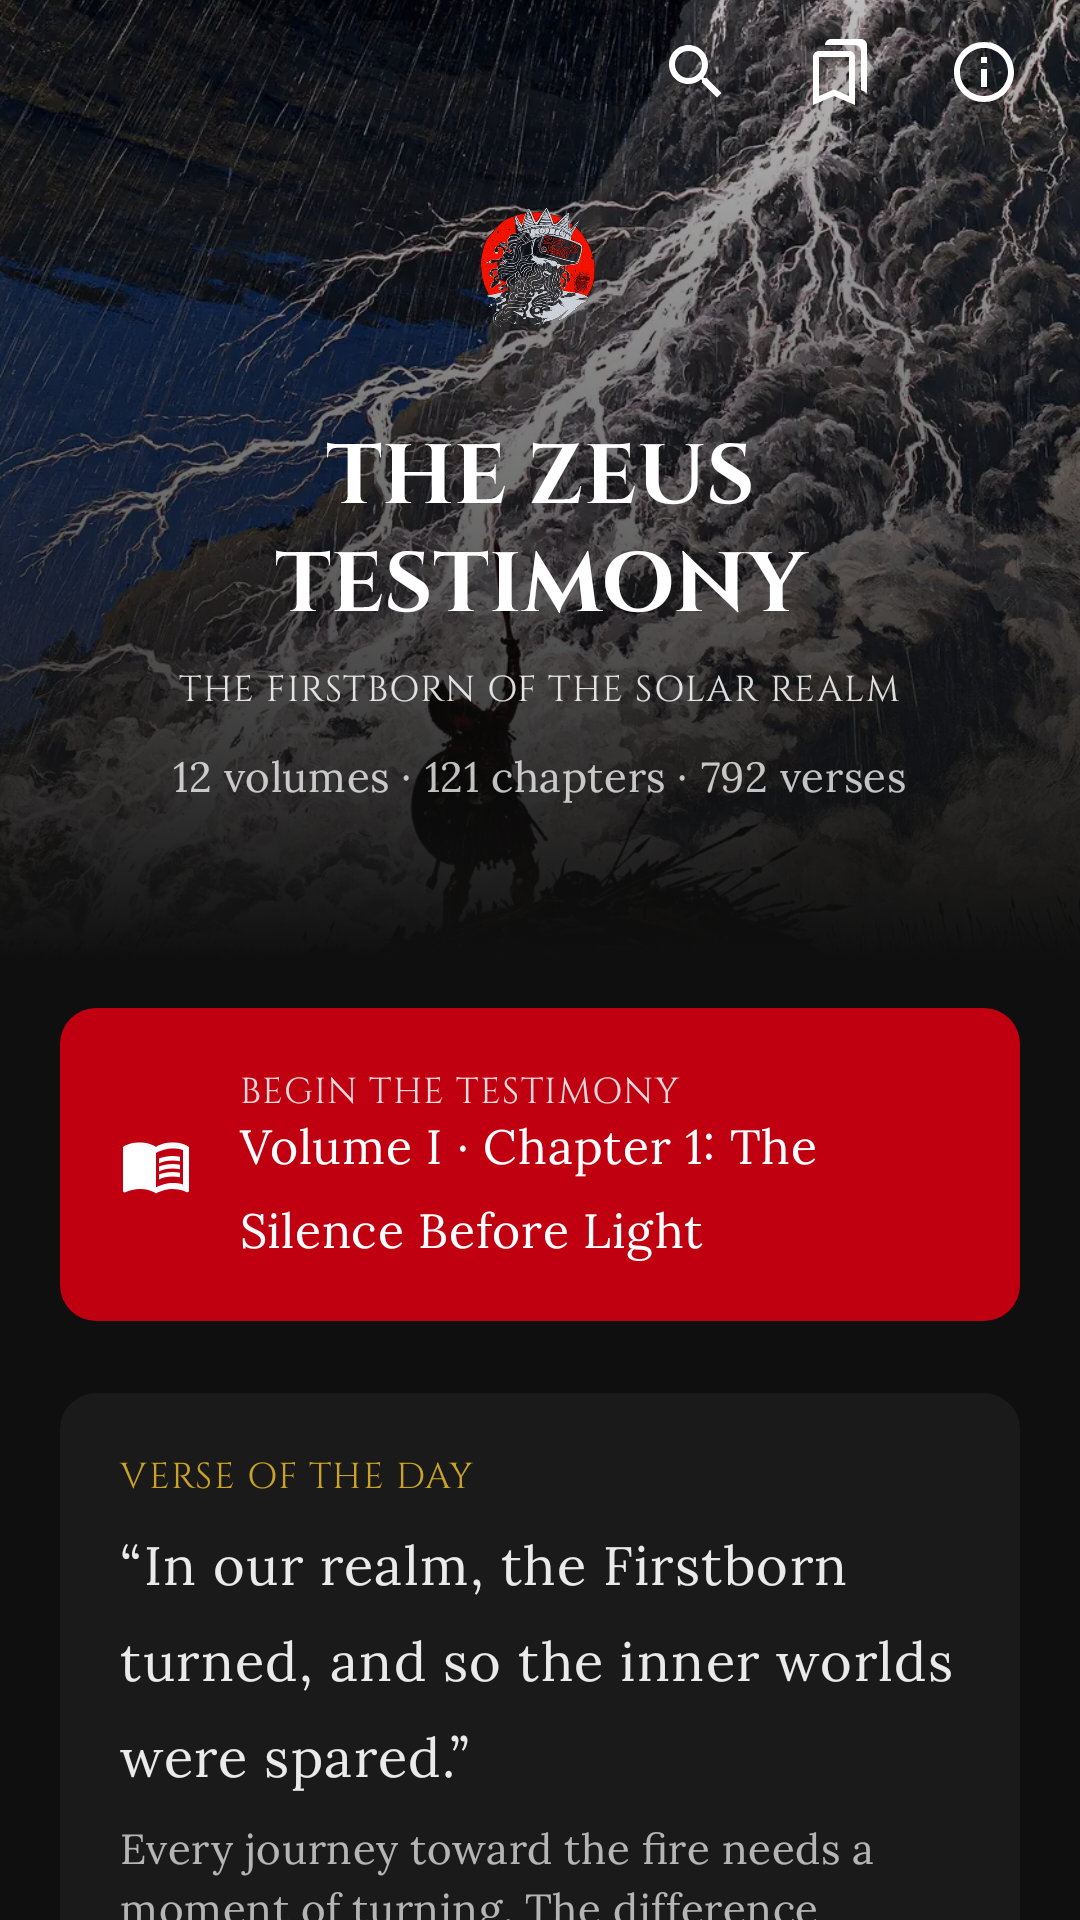
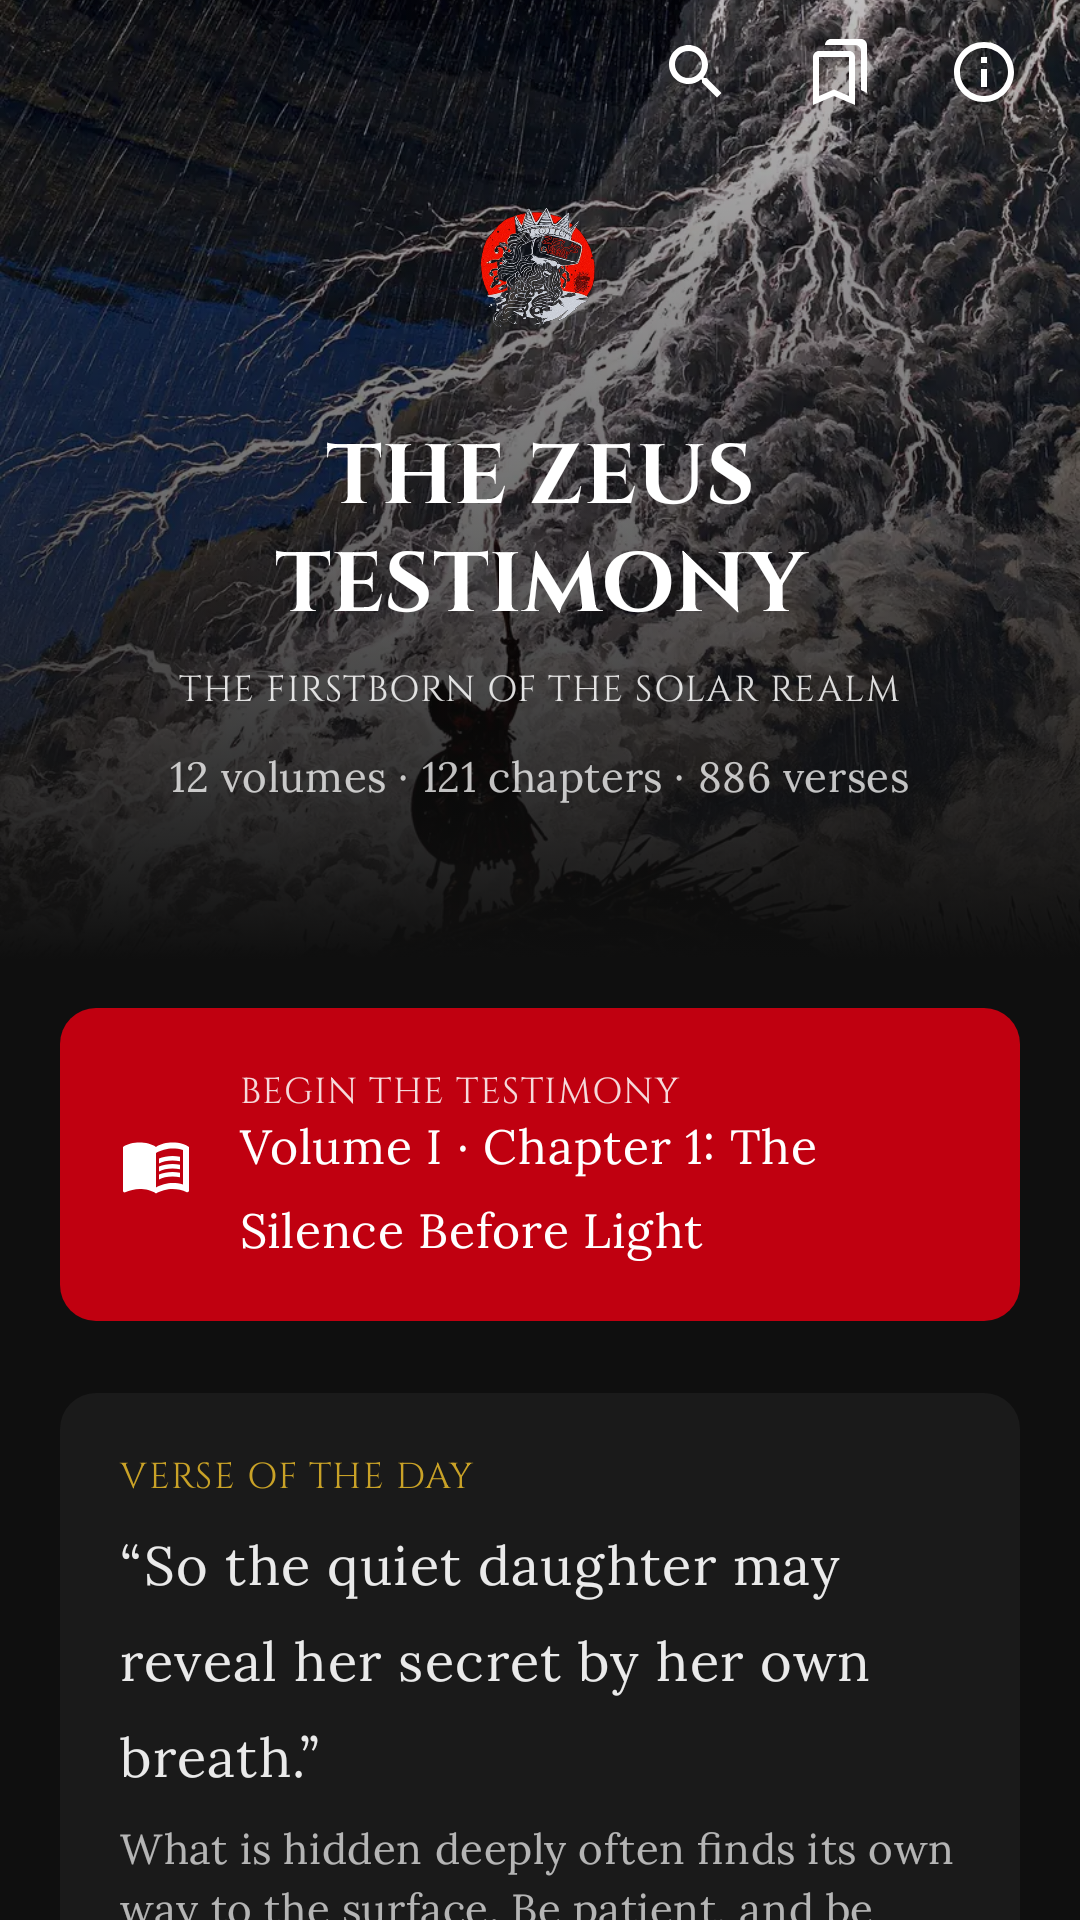
v2.6.0: first-launch introduction and 27 deepened chapters
- IntroScreen: four swipeable pages on first launch (the premise, the claim,
  science versus myth, the reader tools), Skip and Next, re-openable from
  About. ReaderFlowTest and LightModeTest now pass through it.
- Deepen 27 of the shortest chapters with 3 to 5 verses each (886 verses):
  Milankovitch cycles, Mercury's iron core, Jack Hills zircons, Red Spot
  Junior, the polar cyclones, Io's lava temperatures, Juno's Galileo plaque
  and more, all with labelled notes.

Claude-Session: https://claude.ai/code/session_01SLJxv3LMu86HmnE1Ybuoap

diff --git a/app/src/main/java/com/example/ui/screens/IntroScreen.kt b/app/src/main/java/com/example/ui/screens/IntroScreen.kt
@@ -1,0 +1,118 @@
+package com.example.ui.screens
+
+import androidx.compose.foundation.background
+import androidx.compose.foundation.layout.*
+import androidx.compose.foundation.pager.HorizontalPager
+import androidx.compose.foundation.pager.rememberPagerState
+import androidx.compose.foundation.shape.CircleShape
+import androidx.compose.material3.*
+import androidx.compose.runtime.Composable
+import androidx.compose.runtime.rememberCoroutineScope
+import androidx.compose.ui.Alignment
+import androidx.compose.ui.Modifier
+import androidx.compose.ui.draw.clip
+import androidx.compose.ui.graphics.Brush
+import androidx.compose.ui.graphics.Color
+import androidx.compose.ui.text.font.FontStyle
+import androidx.compose.ui.text.style.TextAlign
+import androidx.compose.ui.unit.dp
+import com.example.ui.components.AssetImage
+import kotlinx.coroutines.launch
+
+private data class IntroPage(val image: String, val kicker: String, val title: String, val body: String)
+
+private val pages = listOf(
+    IntroPage(
+        "v03_c01.webp",
+        "BEFORE THE EARTH",
+        "There was a king.",
+        "Four and a half billion years ago, before the Earth existed, one world grew faster than all the rest. " +
+            "Within a million years Jupiter was already standing. It was the first planet of our solar system.",
+    ),
+    IntroPage(
+        "v03_c02.webp",
+        "THE TESTIMONY",
+        "The first god to hold a world.",
+        "Jupiter carries the name of Zeus, the Sky Father. If Jupiter was the first world, then Zeus is the first god " +
+            "of the solar realm to hold one. Above him stands the Source, unnamed. This is his story.",
+    ),
+    IntroPage(
+        "v09_c01.webp",
+        "SCIENCE, MYTH AND WISDOM",
+        "Read with open eyes.",
+        "The verses are an epic. Beneath them, notes marked Science, History and Myth tell you what is proven, " +
+            "what is still debated, and what the ancients sang. Wisdom notes are for your own life.",
+    ),
+    IntroPage(
+        "v12_c08.webp",
+        "MAKE IT YOURS",
+        "Tap any verse.",
+        "Bookmark it for later, highlight it in gold, crimson, sky or olive, or share it. " +
+            "Your library, search and a new verse every day are waiting. Everything stays on your device.",
+    ),
+)
+
+@Composable
+fun IntroScreen(onFinish: () -> Unit) {
+    val pager = rememberPagerState { pages.size }
+    val scope = rememberCoroutineScope()
+    Box(Modifier.fillMaxSize().background(Color.Black)) {
+        HorizontalPager(state = pager, modifier = Modifier.fillMaxSize()) { index ->
+            val page = pages[index]
+            Box(Modifier.fillMaxSize()) {
+                AssetImage(path = page.image, contentDescription = null, modifier = Modifier.fillMaxSize())
+                Box(
+                    Modifier.fillMaxSize().background(
+                        Brush.verticalGradient(
+                            0f to Color.Black.copy(alpha = 0.15f),
+                            0.45f to Color.Black.copy(alpha = 0.35f),
+                            1f to Color.Black.copy(alpha = 0.95f),
+                        ),
+                    ),
+                )
+                Column(
+                    Modifier.align(Alignment.BottomCenter).fillMaxWidth().padding(horizontal = 28.dp).padding(bottom = 150.dp),
+                    horizontalAlignment = Alignment.CenterHorizontally,
+                ) {
+                    Text(page.kicker, style = MaterialTheme.typography.labelSmall, color = Color(0xFFC9A227), textAlign = TextAlign.Center)
+                    Spacer(Modifier.height(12.dp))
+                    Text(page.title, style = MaterialTheme.typography.titleLarge, color = Color.White, textAlign = TextAlign.Center)
+                    Spacer(Modifier.height(16.dp))
+                    Text(
+                        page.body,
+                        style = MaterialTheme.typography.bodyMedium.copy(fontStyle = FontStyle.Italic),
+                        color = Color.White.copy(alpha = 0.88f),
+                        textAlign = TextAlign.Center,
+                    )
+                }
+            }
+        }
+
+        Column(
+            Modifier.align(Alignment.BottomCenter).fillMaxWidth().navigationBarsPadding().padding(24.dp),
+            horizontalAlignment = Alignment.CenterHorizontally,
+        ) {
+            Row(horizontalArrangement = Arrangement.spacedBy(8.dp)) {
+                repeat(pages.size) { i ->
+                    Box(
+                        Modifier
+                            .size(if (i == pager.currentPage) 10.dp else 7.dp)
+                            .clip(CircleShape)
+                            .background(if (i == pager.currentPage) Color(0xFFC9A227) else Color.White.copy(alpha = 0.4f)),
+                    )
+                }
+            }
+            Spacer(Modifier.height(20.dp))
+            val last = pager.currentPage == pages.lastIndex
+            Button(
+                onClick = { if (last) onFinish() else scope.launch { pager.animateScrollToPage(pager.currentPage + 1) } },
+                modifier = Modifier.fillMaxWidth(),
+            ) { Text(if (last) "Begin the Testimony" else "Next") }
+        }
+
+        TextButton(
+            onClick = onFinish,
+            modifier = Modifier.align(Alignment.TopEnd).statusBarsPadding().padding(8.dp),
+        ) { Text("Skip", color = Color.White) }
+    }
+}

diff --git a/app/src/main/java/com/example/ui/Navigation.kt b/app/src/main/java/com/example/ui/Navigation.kt
@@ -33,6 +33,7 @@ import com.example.data.TestimonyRepository
 import com.example.ui.screens.AboutScreen
 import com.example.ui.screens.ChapterScreen
 import com.example.ui.screens.HomeScreen
+import com.example.ui.screens.IntroScreen
 import com.example.ui.screens.LibraryScreen
 import com.example.ui.screens.SearchScreen
 import com.example.ui.screens.VolumeScreen
@@ -80,7 +81,16 @@ private fun TestimonyNavHost(testimony: Testimony) {
         }
     }
 
-    NavHost(navController = nav, startDestination = "home") {
+    val start = remember { if (prefs.introSeen) "home" else "intro" }
+    NavHost(navController = nav, startDestination = start) {
+        composable("intro") {
+            IntroScreen(onFinish = {
+                prefs.introSeen = true
+                // Re-opened from About: just go back. First launch: replace intro with home.
+                if (nav.previousBackStackEntry != null) nav.popBackStack()
+                else nav.navigate("home") { popUpTo("intro") { inclusive = true } }
+            })
+        }
         composable("home") {
             HomeScreen(
                 testimony = testimony,
@@ -145,7 +155,7 @@ private fun TestimonyNavHost(testimony: Testimony) {
             )
         }
         composable("about") {
-            AboutScreen(testimony = testimony, onBack = { nav.popBackStack() })
+            AboutScreen(testimony = testimony, onShowIntro = { nav.navigate("intro") }, onBack = { nav.popBackStack() })
         }
     }
 }

diff --git a/app/src/main/java/com/example/ui/screens/AboutScreen.kt b/app/src/main/java/com/example/ui/screens/AboutScreen.kt
@@ -14,7 +14,7 @@ import com.example.data.Testimony
 
 @OptIn(ExperimentalMaterial3Api::class)
 @Composable
-fun AboutScreen(testimony: Testimony, onBack: () -> Unit) {
+fun AboutScreen(testimony: Testimony, onShowIntro: () -> Unit, onBack: () -> Unit) {
     Scaffold(
         topBar = {
             TopAppBar(
@@ -60,6 +60,8 @@ fun AboutScreen(testimony: Testimony, onBack: () -> Unit) {
                 "This app collects no personal data. It has no accounts, no advertising, no analytics and no internet " +
                     "access. Your reading position, text size, bookmarks and highlights are stored only on this device.",
             )
+            OutlinedButton(onClick = onShowIntro) { Text("Show the introduction again") }
+            Spacer(Modifier.height(24.dp))
             Text(
                 "Version ${BuildConfig.VERSION_NAME} · ${testimony.volumes.size} volumes · ${testimony.chapterCount} chapters · ${testimony.verseCount} verses",
                 style = MaterialTheme.typography.bodySmall,

diff --git a/app/src/main/java/com/example/data/TestimonyRepository.kt b/app/src/main/java/com/example/data/TestimonyRepository.kt
@@ -34,6 +34,10 @@ class ReadingPrefs(context: Context) {
             }.apply()
         }
 
+    var introSeen: Boolean
+        get() = prefs.getBoolean(KEY_INTRO, false)
+        set(value) = prefs.edit().putBoolean(KEY_INTRO, value).apply()
+
     var textScale: Float
         get() = prefs.getFloat(KEY_SCALE, 1f).coerceIn(MIN_SCALE, MAX_SCALE)
         set(value) = prefs.edit().putFloat(KEY_SCALE, value.coerceIn(MIN_SCALE, MAX_SCALE)).apply()
@@ -44,5 +48,6 @@ class ReadingPrefs(context: Context) {
         private const val KEY_VOLUME = "volume"
         private const val KEY_CHAPTER = "chapter"
         private const val KEY_SCALE = "text_scale"
+        private const val KEY_INTRO = "intro_seen"
     }
 }

diff --git a/app/src/test/java/com/example/ui/ReaderFlowTest.kt b/app/src/test/java/com/example/ui/ReaderFlowTest.kt
@@ -43,6 +43,12 @@ class ReaderFlowTest {
     fun readThroughAVolume() {
         rule.setContent { AppTheme(darkTheme = true) { AppNavigation() } }
 
+        // First launch shows the introduction.
+        waitForText("There was a king.")
+        shot("0_intro")
+        rule.onNodeWithText("Next").performClick()
+        waitForText("The first god to hold a world.")
+        rule.onNodeWithText("Skip").performClick()
         waitForText("THE ZEUS TESTIMONY")
         rule.onNodeWithText("12 volumes", substring = true).assertExists()
         shot("1_home")

diff --git a/app/src/test/java/com/example/ui/LightModeTest.kt b/app/src/test/java/com/example/ui/LightModeTest.kt
@@ -27,6 +27,8 @@ class LightModeTest {
     private fun wait(t: String) = rule.waitUntil(10_000) { rule.onAllNodesWithText(t, substring = true).fetchSemanticsNodes().isNotEmpty() }
     @Test fun light() {
         rule.setContent { AppTheme(darkTheme = false) { AppNavigation() } }
+        wait("Skip")
+        rule.onNodeWithText("Skip").performClick()
         wait("THE ZEUS TESTIMONY")
         rule.onNode(hasScrollAction()).performScrollToNode(hasText("The Disk of Becoming"))
         rule.onRoot().captureRoboImage("build/screens/light_home.png")

diff --git a/doc/changes.md b/doc/changes.md
@@ -1,5 +1,9 @@
 # Changes
 
+## 2.6.0
+- First-launch introduction: four swipeable pages (the premise, the claim, how to read science versus myth, the reader tools) with Skip, and a way to re-open it from About.
+- Deepened 27 of the shortest chapters with 3 to 5 new verses each (886 verses total), including Milankovitch cycles, Mercury's iron core, the Jack Hills zircons, Red Spot Junior, the polar cyclones, Io's lava temperatures and Juno's Galileo plaque.
+
 ## 2.5.0
 - Fix: home screen volume cards stretched to the full height of portrait thumbnails; cards now have a fixed height.
 - New LightModeTest renders the light theme.

diff --git a/doc/status.md b/doc/status.md
@@ -1,6 +1,7 @@
 # Status
 
-- 12 volumes, 121 chapters, 790+ verses, every chapter with an opening epigraph and labelled commentary.
+- 12 volumes, 121 chapters, 880+ verses, every chapter with an opening epigraph and labelled commentary.
+- First-launch introduction.
 - Bookmarks, highlights (4 colours), My Library, full-text search, verse of the day, per-volume progress, copy/share.
 - Volume -> chapter -> verse reader with continue-reading, text size, cross-volume navigation.
 - Play-readiness: no permissions, no data collection, R8 minification on, env-based signing.

diff --git a/doc/play-store-submission.md b/doc/play-store-submission.md
@@ -68,7 +68,7 @@ as scripture-style verses, from the cold cloud before the Sun to the storms and 
 Its central idea: Jupiter was the first planet to form, so Zeus, the god whose name it carries, is
 the first god of the solar realm to hold a world.
 
-- 12 volumes, 121 chapters, 790+ verses
+- 12 volumes, 121 chapters, 880+ verses
 - Science notes summarising real research, labelled when an idea is still a hypothesis
 - Myth and History notes on Hesiod, Galileo, Voyager, Juno and Europa Clipper
 - Wisdom notes on building, patience, boundaries and endurance
